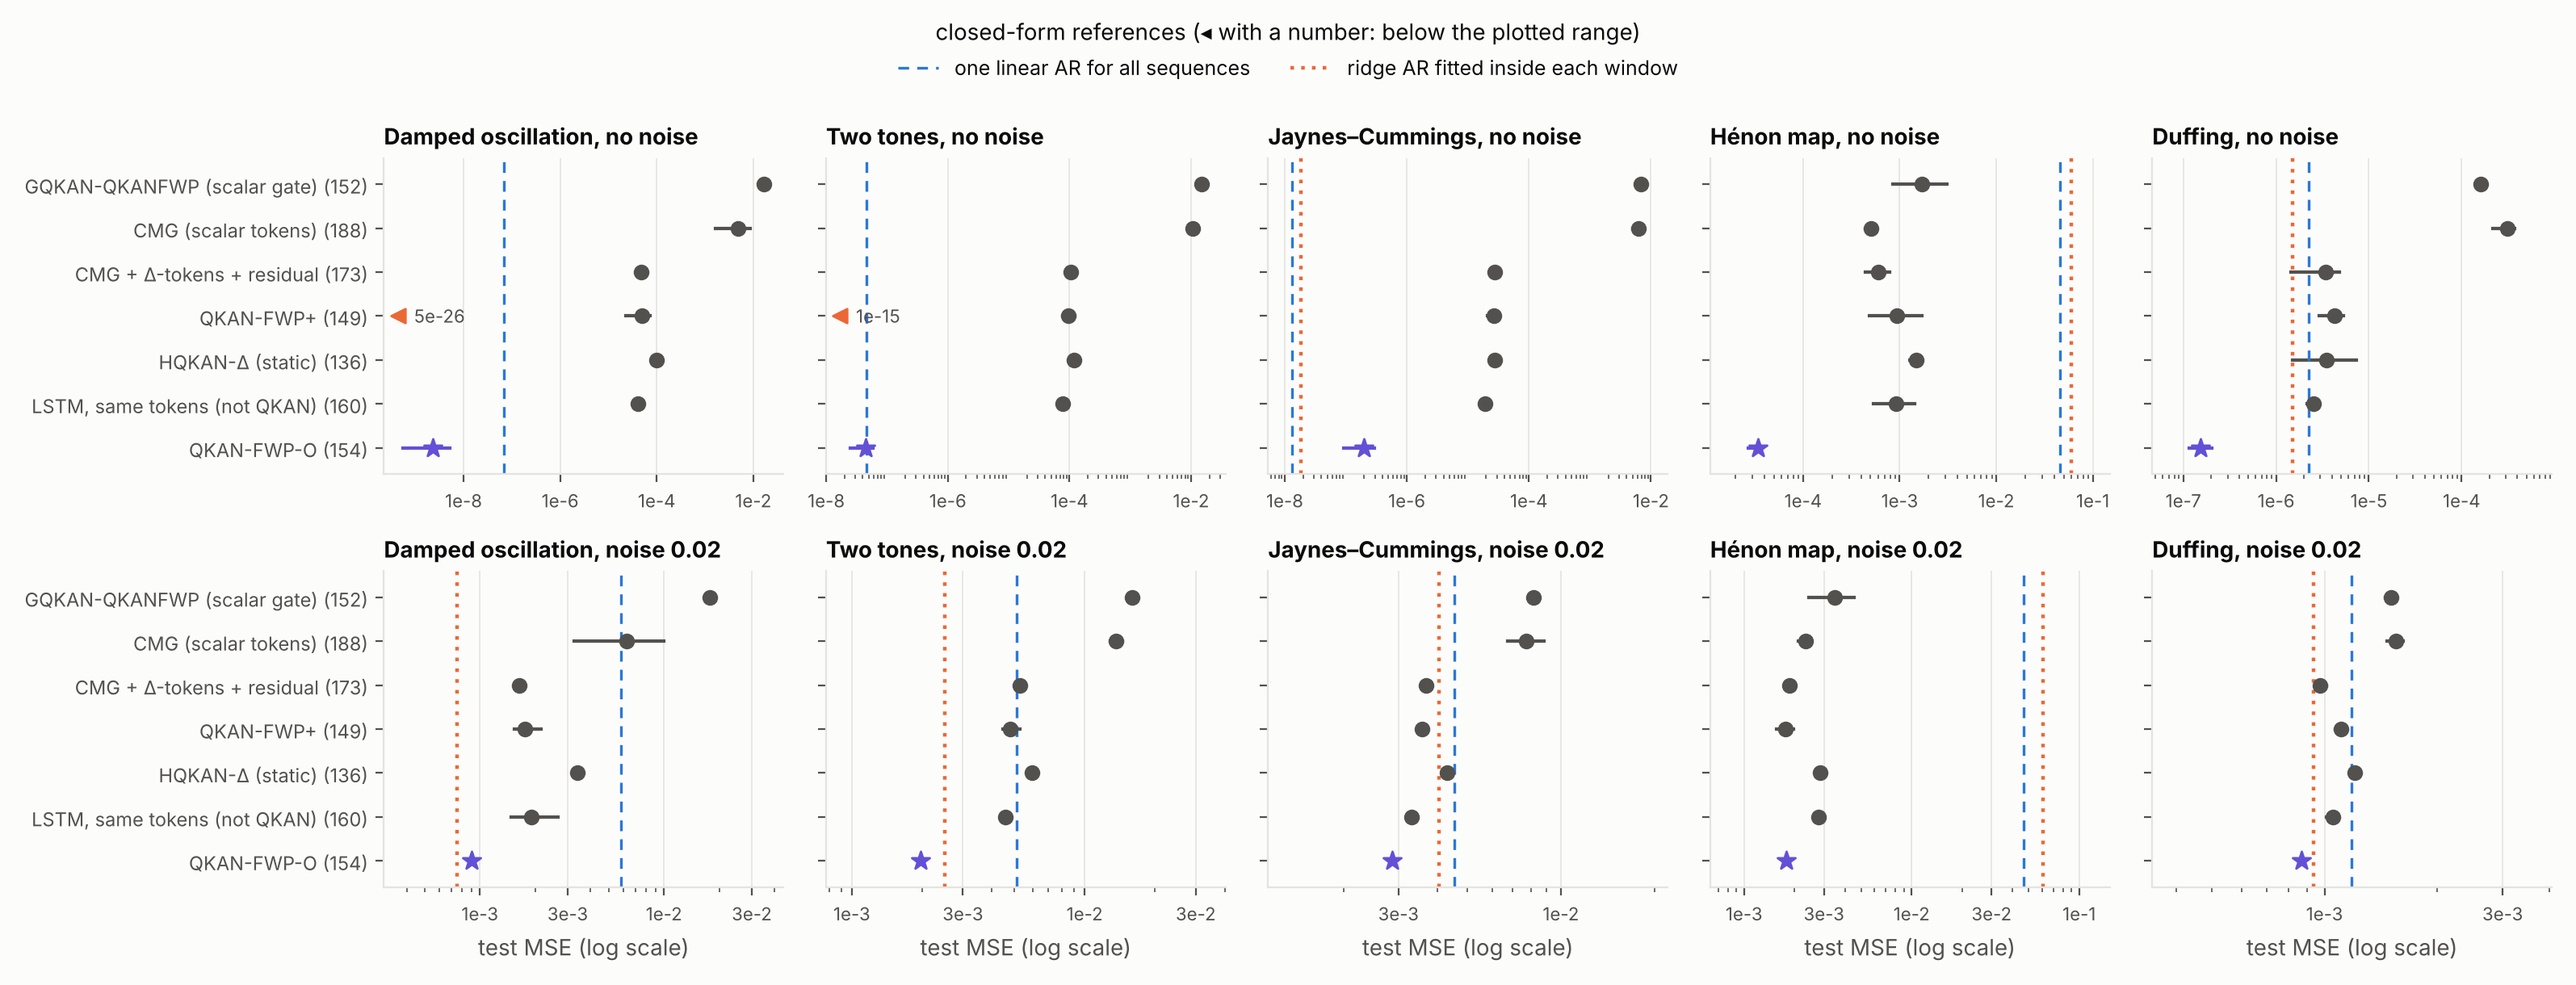
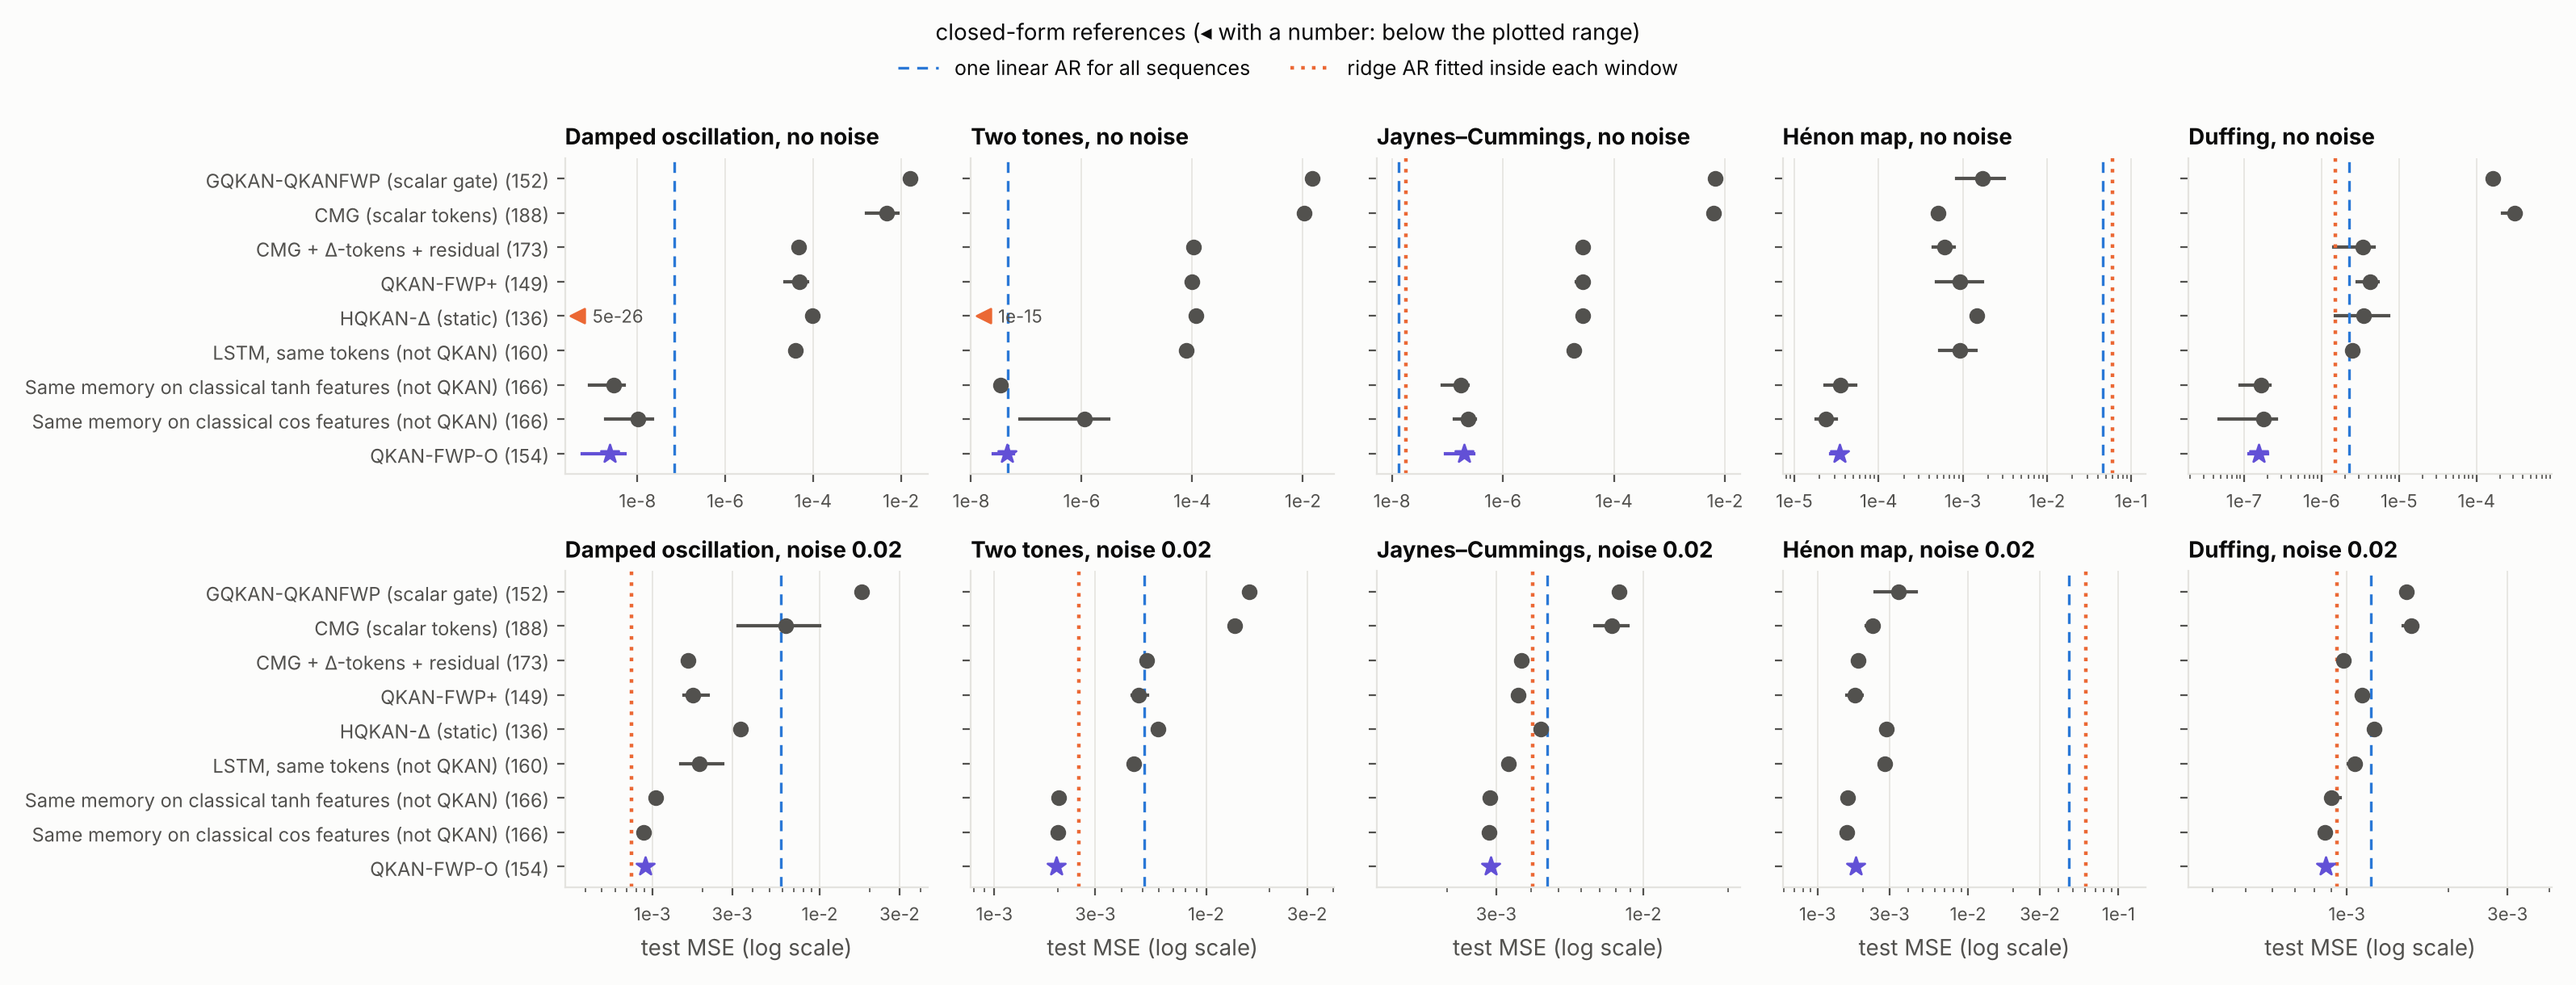
Add finite-shot results, family results of the float32 and classical-feature controls
Claude-Session: https://claude.ai/code/session_016nXnsLn5FE7GbFMSeiQvNh

diff --git a/experiments/make_om_report.py b/experiments/make_om_report.py
@@ -328,7 +328,10 @@ def family_part(out):
         if not rat:
             return
         r = gmean(rat)
-        word = f"**{big(1 / r)}× lower**" if r < 1 else f"{big(r)}× higher"
+        if 0.95 < r < 1.05:
+            word = f"equal ({r:.2f}×)"
+        else:
+            word = f"**{big(1 / r)}× lower**" if r < 1 else f"{big(r)}× higher"
         out.append(f"| {label} | {par} | {word} | {sum(x < 1 for x in rat)}/{len(rat)} | {big(1 / max(rat))}× … {big(1 / min(rat))}× |")
 
     for v, lab in models:

diff --git a/results/tables_om.md b/results/tables_om.md
@@ -100,6 +100,9 @@
 | one prior precision instead of one per feature | 106–130 | **1×** | 9/20 | 0.99× | 0.98× | 0.98× | 1.2× | 0.9× | – |
 | no base-activation (linear) term: Bloch features only | 112–136 | **4.7×** | 18/20 | 3.8× | 25× | 1.8× | 3.2× | 4.2× | – |
 | no Bloch features: linear term only (classical control) | 52–76 | **1.1×** | 14/24 | 0.5× | 3.2× | 1.6× | 1.4× | 2.2× | 0.18× |
+| classical tanh(w·u + b) features instead of the Bloch features, same memory | 166 | **0.74×** | 0/2 | 0.75× | 0.73× | – | – | – | – |
+| classical cos(w·u + b) features instead of the Bloch features, same memory | 166 | **0.83×** | 0/2 | 0.88× | 0.78× | – | – | – | – |
+| float32 instead of float64 (features, statistics and solve) | 154 | **1.1×** | 2/3 | 1× | 0.98× | 1.5× | – | – | – |
 | 4 circuits instead of 6 | 88–104 | **1.7×** | 18/20 | 1.3× | 3.6× | 1.1× | 1.6× | 1.7× | – |
 | fixed token length 6 instead of min(8, N/2) | 142 | **1.9×** | 13/20 | 0.72× | 1.4× | 5.3× | 1.2× | 3.9× | – |
 
@@ -140,10 +143,12 @@ Mean ± std over 3 seeds at the learning rate chosen on validation (one of 3e-3,
 | GQKAN-QKANFWP (scalar gate) | 152 | 1.64e-02 ± 2.8e-04 | 1.47e-02 ± 6.1e-05 | 6.77e-03 ± 1.3e-04 | 1.70e-03 ± 1.0e-03 | 1.62e-04 ± 8.2e-06 | 1.77e-02 ± 7.8e-05 | 1.60e-02 ± 1.2e-04 | 8.18e-03 ± 2.5e-05 | 3.47e-03 ± 8.6e-04 | 1.51e-03 ± 3.5e-05 |
 | CMG (scalar tokens) | 188 | 4.83e-03 ± 2.9e-03 | 1.07e-02 ± 1.6e-03 | 6.27e-03 ± 9.8e-04 | 5.07e-04 ± 5.6e-05 | 3.10e-04 ± 6.9e-05 | 6.25e-03 ± 2.8e-03 | 1.36e-02 ± 7.1e-04 | 7.72e-03 ± 8.5e-04 | 2.33e-03 ± 1.6e-04 | 1.56e-03 ± 6.3e-05 |
 | CMG + Δ-tokens + residual | 173 | 4.72e-05 ± 2.8e-06 | 1.04e-04 ± 1.8e-05 | 2.77e-05 ± 1.4e-06 | 6.04e-04 ± 1.4e-04 | 3.40e-06 ± 1.4e-06 | 1.64e-03 ± 3.9e-05 | 5.26e-03 ± 1.2e-04 | 3.68e-03 ± 1.1e-04 | 1.86e-03 ± 9.0e-05 | 9.75e-04 ± 2.7e-05 |
-| QKAN-FWP+ | 149 | 4.87e-05 ± 2.1e-05 | 9.73e-05 ± 1.8e-05 | 2.72e-05 ± 4.3e-06 | 9.35e-04 ± 5.5e-04 | 4.23e-06 ± 1.0e-06 | 1.75e-03 ± 2.8e-04 | 4.78e-03 ± 3.6e-04 | 3.58e-03 ± 1.1e-04 | **1.76e-03 ± 1.6e-04** | 1.11e-03 ± 3.2e-05 |
+| QKAN-FWP+ | 149 | 4.87e-05 ± 2.1e-05 | 9.73e-05 ± 1.8e-05 | 2.72e-05 ± 4.3e-06 | 9.35e-04 ± 5.5e-04 | 4.23e-06 ± 1.0e-06 | 1.75e-03 ± 2.8e-04 | 4.78e-03 ± 3.6e-04 | 3.58e-03 ± 1.1e-04 | 1.76e-03 ± 1.6e-04 | 1.11e-03 ± 3.2e-05 |
 | HQKAN-Δ (static) | 136 | 9.83e-05 ± 1.2e-05 | 1.18e-04 ± 1.6e-05 | 2.78e-05 ± 1.2e-06 | 1.48e-03 ± 1.5e-04 | 3.49e-06 ± 2.7e-06 | 3.38e-03 ± 1.8e-04 | 5.94e-03 ± 2.9e-05 | 4.31e-03 ± 3.8e-05 | 2.86e-03 ± 5.3e-05 | 1.21e-03 ± 2.2e-05 |
 | LSTM, same tokens (not QKAN) | 160 | 4.03e-05 ± 5.6e-06 | 7.71e-05 ± 6.4e-06 | 1.89e-05 ± 1.9e-06 | 9.27e-04 ± 3.7e-04 | 2.52e-06 ± 2.9e-07 | 1.91e-03 ± 5.2e-04 | 4.57e-03 ± 1.3e-04 | 3.31e-03 ± 1.5e-05 | 2.80e-03 ± 8.4e-05 | 1.05e-03 ± 3.1e-05 |
-| QKAN-FWP-O | 154 | **2.29e-09 ± 2.1e-09** | **4.40e-08 ± 1.4e-08** | **2.00e-07 ± 8.4e-08** | **3.42e-05 ± 4.9e-06** | **1.54e-07 ± 3.5e-08** | **9.05e-04 ± 9.2e-06** | **1.97e-03 ± 2.6e-05** | **2.87e-03 ± 1.7e-05** | 1.79e-03 ± 4.4e-05 | **8.67e-04 ± 3.4e-06** |
+| Same memory on classical tanh features (not QKAN) | 166 | 2.84e-09 ± 1.8e-09 | **3.36e-08 ± 5.4e-09** | **1.74e-07 ± 6.7e-08** | 3.53e-05 ± 1.3e-05 | 1.67e-07 ± 5.6e-08 | 1.05e-03 ± 3.0e-05 | 2.02e-03 ± 1.4e-05 | 2.85e-03 ± 5.6e-06 | 1.58e-03 ± 8.7e-05 | 9.01e-04 ± 3.7e-05 |
+| Same memory on classical cos features (not QKAN) | 166 | 1.01e-08 ± 8.8e-09 | 1.11e-06 ± 1.4e-06 | 2.33e-07 ± 7.6e-08 | **2.35e-05 ± 6.0e-06** | 1.79e-07 ± 9.4e-08 | **8.85e-04 ± 2.5e-05** | 1.99e-03 ± 3.2e-05 | **2.83e-03 ± 1.7e-05** | **1.56e-03 ± 4.3e-05** | **8.59e-04 ± 1.4e-05** |
+| QKAN-FWP-O | 154 | **2.29e-09 ± 2.1e-09** | 4.40e-08 ± 1.4e-08 | 2.00e-07 ± 8.4e-08 | 3.42e-05 ± 4.9e-06 | **1.54e-07 ± 3.5e-08** | 9.05e-04 ± 9.2e-06 | **1.97e-03 ± 2.6e-05** | 2.87e-03 ± 1.7e-05 | 1.79e-03 ± 4.4e-05 | 8.67e-04 ± 3.4e-06 |
 
 ## QKAN-FWP-O against each model on the families (geometric mean over the cells)
 
@@ -155,6 +160,8 @@ Mean ± std over 3 seeds at the learning rate chosen on validation (one of 3e-3,
 | QKAN-FWP+ | 149 | **23× lower** | 9/10 | 0.98× … 2.1e4× |
 | HQKAN-Δ (static) | 136 | **30× lower** | 10/10 | 1.4× … 4.3e4× |
 | LSTM, same tokens (not QKAN) | 160 | **21× lower** | 10/10 | 1.2× … 1.8e4× |
+| Same memory on classical tanh features (not QKAN) | 166 | equal (1.00×) | 6/10 | 0.76× … 1.2× |
+| Same memory on classical cos features (not QKAN) | 166 | **1.6× lower** | 5/10 | 0.69× … 25× |
 | *one linear AR(p) for all sequences* | – | **5.8× lower** | 9/10 | 0.067× … 1345× |
 | *ridge AR(q) fitted inside each window* | – | 87× higher | 6/10 | 2e-17× … 1752× |
 
@@ -166,6 +173,9 @@ Mean ± std over 3 seeds at the learning rate chosen on validation (one of 3e-3,
 | sequential delta rule instead of the least-squares solve | 154 | **7.4×** | 1149× | 508× | 21× | 4.1× | 4.2× | 1.2× | 1.8× | 1.2× | 0.93× | 1.1× |
 | no gate (additive statistics, uniform weights) | 128 | **1.5×** | 0.41× | 0.67× | 0.57× | 1.4× | 1.3× | 3.5× | 3× | 2.4× | 3.1× | 2.7× |
 | no Bloch features: linear term only (classical control) | 76 | **1.1×** | 0.012× | 0.046× | 0.056× | 1164× | 2.4× | 0.97× | 1.1× | 1× | 22× | 1× |
+| classical tanh(w·u + b) features instead of the Bloch features, same memory | 166 | **1×** | 1.2× | 0.76× | 0.87× | 1× | 1.1× | 1.2× | 1× | 1× | 0.88× | 1× |
+| classical cos(w·u + b) features instead of the Bloch features, same memory | 166 | **1.6×** | 4.4× | 25× | 1.2× | 0.69× | 1.2× | 0.98× | 1× | 0.99× | 0.87× | 0.99× |
+| float32 instead of float64 (features, statistics and solve) | 154 | **1×** | 1.4× | 1.1× | 0.92× | 1.1× | 0.97× | 0.99× | 1× | 1× | 0.99× | 1× |
 
 ## Finite-shot sensitivity (N = 16; test MSE against the shot budget S per circuit and input, mean over 3 seeds)
 

diff --git a/README.md b/README.md
@@ -37,7 +37,8 @@
 - 論文型態的記憶（由 slow programmer 產生旋轉角）在這些 benchmark 上沒有幫助：沒有 fast weights 的 HQKAN-Δ 在每一格都比
   QKAN-FWP+ 好，也比給了相同 token 的 CMG 好。
 - 在「每條序列物理參數都不同」的系統族上（模型必須從 16 步的視窗辨識系統；`qkanfwp/families.py`），QKAN-FWP-O 在 10 格中的
-  9 格最低：沒有雜訊時比其他神經模型低 15 倍到 2 萬倍，有雜訊時低 1.1–2.3 倍；在非線性的 Hénon map 上比線性參考線低 30–1300 倍。
+  9 格比其他架構（GQKAN-QKANFWP、CMG、QKAN-FWP+、HQKAN-Δ、LSTM）低：沒有雜訊時低 15 倍到 2 萬倍，有雜訊時低 1.1–2.3 倍；
+  在非線性的 Hénon map 上比線性參考線低 30–1300 倍。
 - 太陽黑子週期預測：QKAN-FWP-O 的參數化以約 500 個參數（論文模型的 4%）在三種資料切分上都得到比重新實作的 baseline 低 19–25% 的 MSE
   （這個收益來自精簡的參數化，不是記憶）。
 
@@ -46,8 +47,9 @@
 - **六個 benchmark 幾乎是線性問題**：9 個參數的線性 AR(8)（最小平方，不需要訓練）在 24 格中的 21 格贏過兩篇論文印出的最佳數字；
   QKAN-FWP-O 只在 NARMA 與 DQC 的 11 格低於它。QKAN-FWP-O 對其他神經模型的差距，主要是「在 context 內直接解最小平方」
   對「用 SGD 逼近線性映射」的差距。
-- **量子電路的特徵只在非線性系統上有貢獻**：線性系統上只留線性項的古典對照組一樣好；Hénon map 上拿掉 Bloch 特徵差 22–1164 倍。
-  模型可以古典模擬，不主張量子優勢。
+- **起作用的是閉迴路的記憶，不是量子電路**：把 Bloch 特徵換成同樣數目的古典 tanh 特徵、記憶與求解完全不變，結果沒有差別；
+  float32 與 float64 也沒有差別。非線性系統需要某種非線性特徵（只留線性項在 Hénon map 上差 22–1164 倍），但 Bloch 向量沒有比
+  古典特徵更好的歸納偏置。模型可以古典模擬，不主張量子優勢；對 QKAN-FWP 的意義是 fast weights 應該放在讀出為線性的量測算符空間。
 - **沒有重現論文印出的 baseline 數字**（論文協定下差 21 倍，調過 learning rate 後差 1.9 倍），所以倍數都是同一個 pipeline 內的比較。
 - In-context 最小平方本身是既有方法（ALPaCA、mesa-layer、delta rule）；這裡的貢獻是把它接到 QKAN-FWP 上並保留論文 gated 遞迴的封閉形式。
 - **有限量測次數**只做了統計雜訊的模擬（REPORT 第 7 節）：以精確期望值訓練的 QKAN-FWP-O 對量測雜訊很敏感，訓練時加入量測雜訊可以修正；
